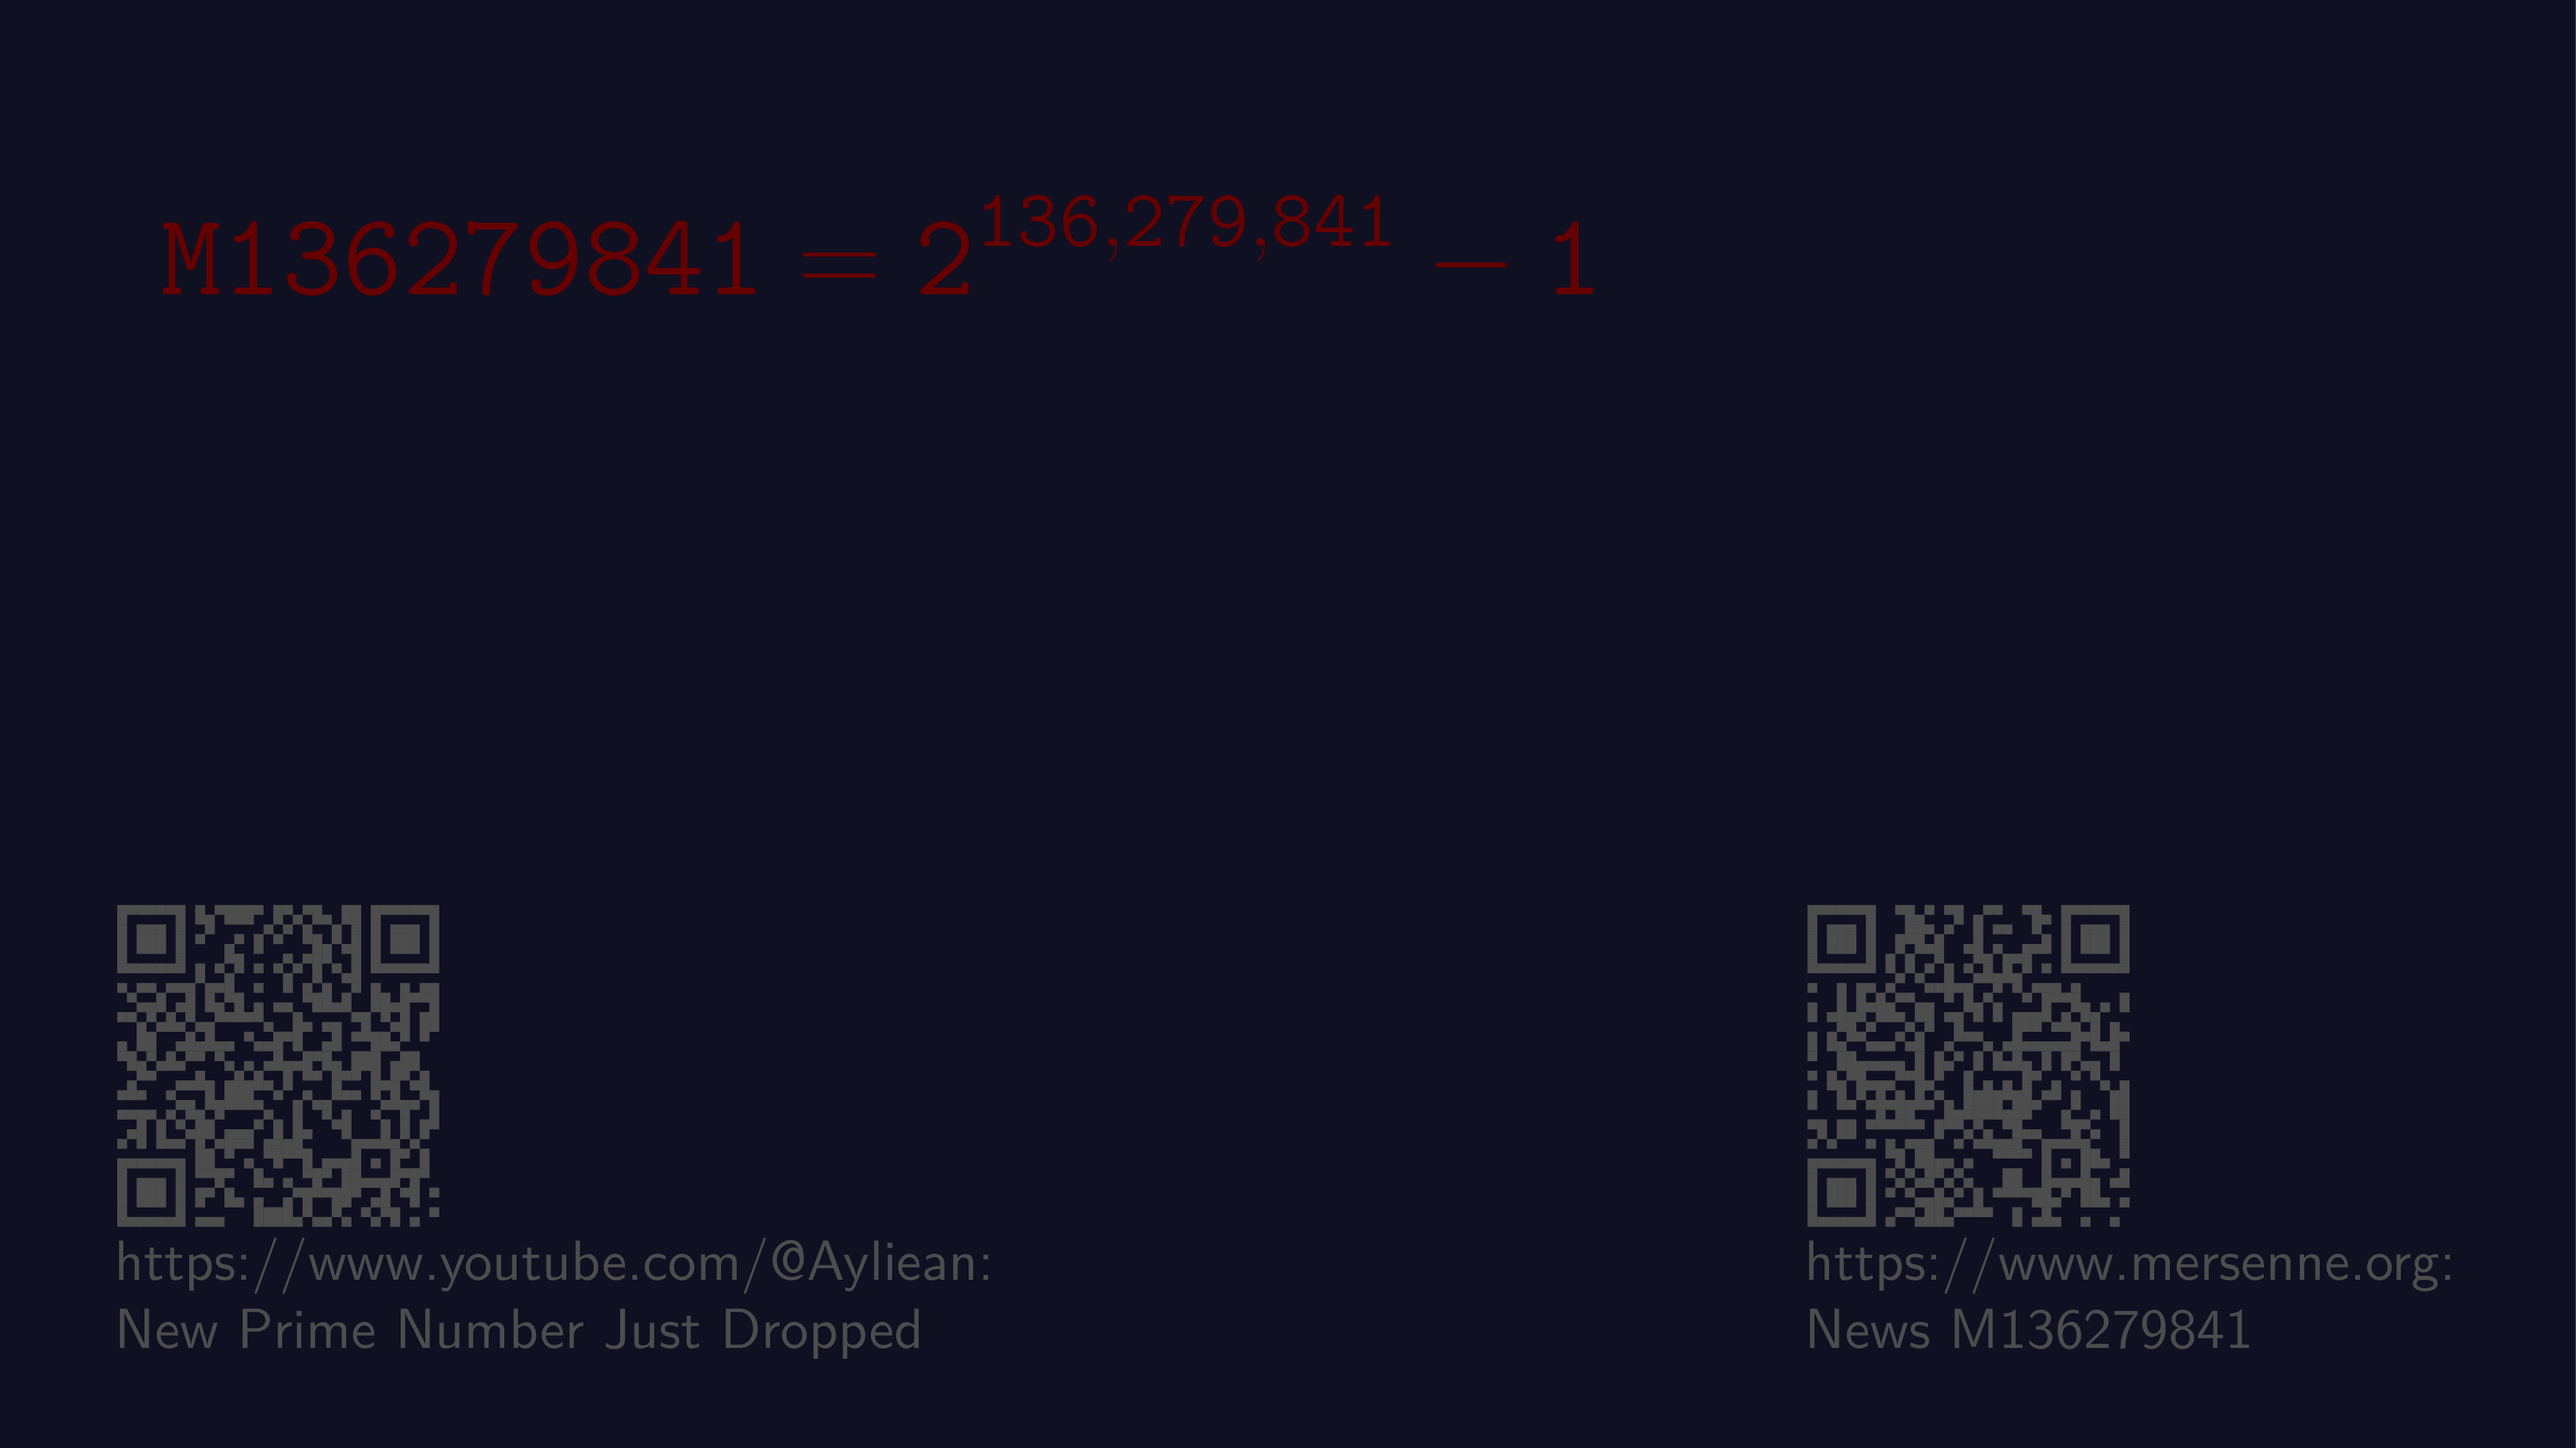
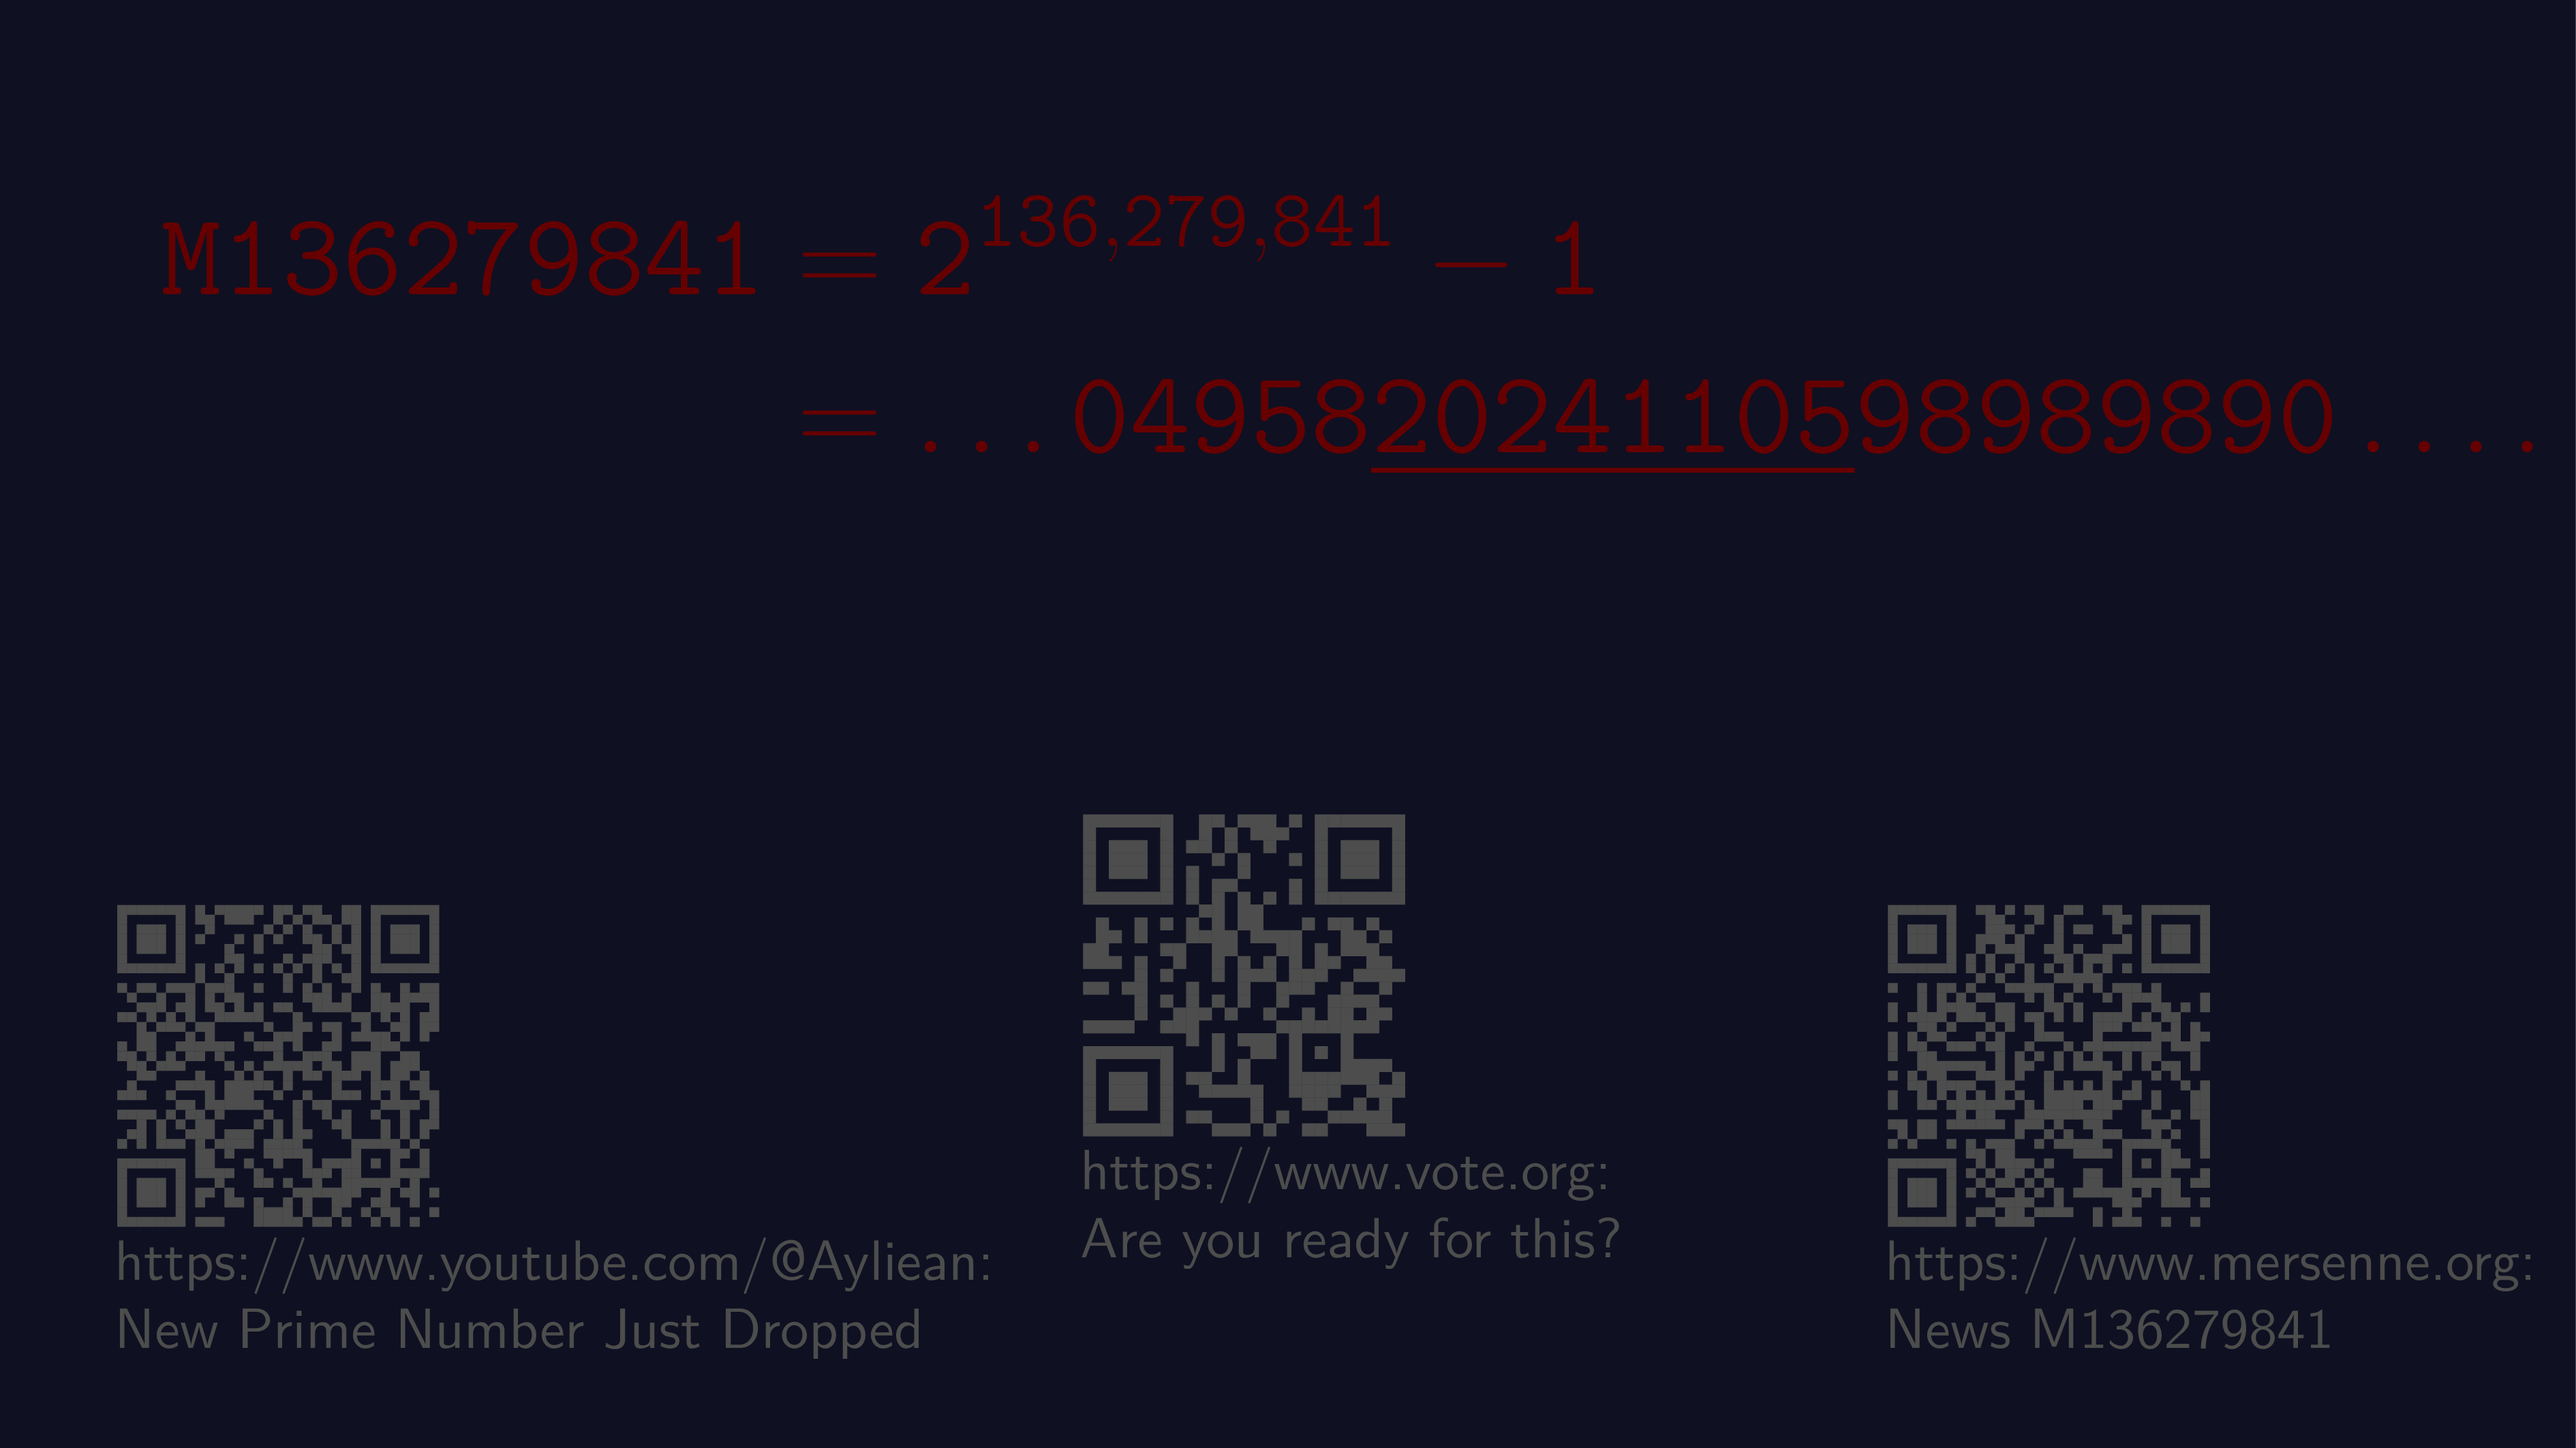
add snippet of M136279841

diff --git a/backgrounds/Mersenne_Prime_M136279841.beamer.tex b/backgrounds/Mersenne_Prime_M136279841.beamer.tex
@@ -1,4 +1,4 @@
-%%%
+%%
 \documentclass[xcolor=dvipsnames, aspectratio=169]{beamer}
 %\usepackage{beamerthemesplit, listings, verbatim}
 
@@ -67,30 +67,17 @@
 \begin{frame}[plain]
 \begin{textblock}{3}(1,1)
     \hfill
-    {\color{DarkRed}
     \huge{
+    {\color{DarkRed}
 	\begin{align*}
-		\mathtt{M136279841} &= \mathtt{2^{136,279,841} - 1}
+	\mathtt{M136279841} &= \mathtt{2^{136,279,841} - 1}\\
+	    &=\mathtt{\dots04958\uline{20241105}98989890\dots.}
 	\end{align*}
     }
 }
     \hfill
 \end{textblock}
 
-\begin{textblock}{3.25}(11,10)
-    \hspace{1mm}
-	{\color{black!70}
-    \qrcode{https://www.mersenne.org/primes/?press=M136279841}
-	}\\%
-	{\color{black!70}
-	{\small
-	\begin{tabular}{l}
-	https://www.mersenne.org:\\ 
-	News M136279841
-	\end{tabular}
-	}
-	}
-\end{textblock}
 \begin{textblock}{3.25}(0.5,10)
     \hspace{1mm}
     {\color{black!70}
@@ -101,6 +88,34 @@
 	\begin{tabular}{l}
 	https://www.youtube.com/@Ayliean:\\ 
 	New Prime Number Just Dropped
+	\end{tabular}
+	}
+	}
+\end{textblock}
+\begin{textblock}{3.25}(6.5,9)
+    \hspace{1mm}
+    {\color{black!70}
+    \qrcode{https://vote.org}
+	}\\%
+	{\color{black!70}
+	{\small
+	\begin{tabular}{l}
+	https://www.vote.org:\\ 
+	Are you ready for this?
+	\end{tabular}
+	}
+	}
+\end{textblock}
+\begin{textblock}{3.25}(11.5,10)
+    \hspace{1mm}
+	{\color{black!70}
+    \qrcode{https://www.mersenne.org/primes/?press=M136279841}
+	}\\%
+	{\color{black!70}
+	{\small
+	\begin{tabular}{l}
+	https://www.mersenne.org:\\ 
+	News M136279841
 	\end{tabular}
 	}
 	}
